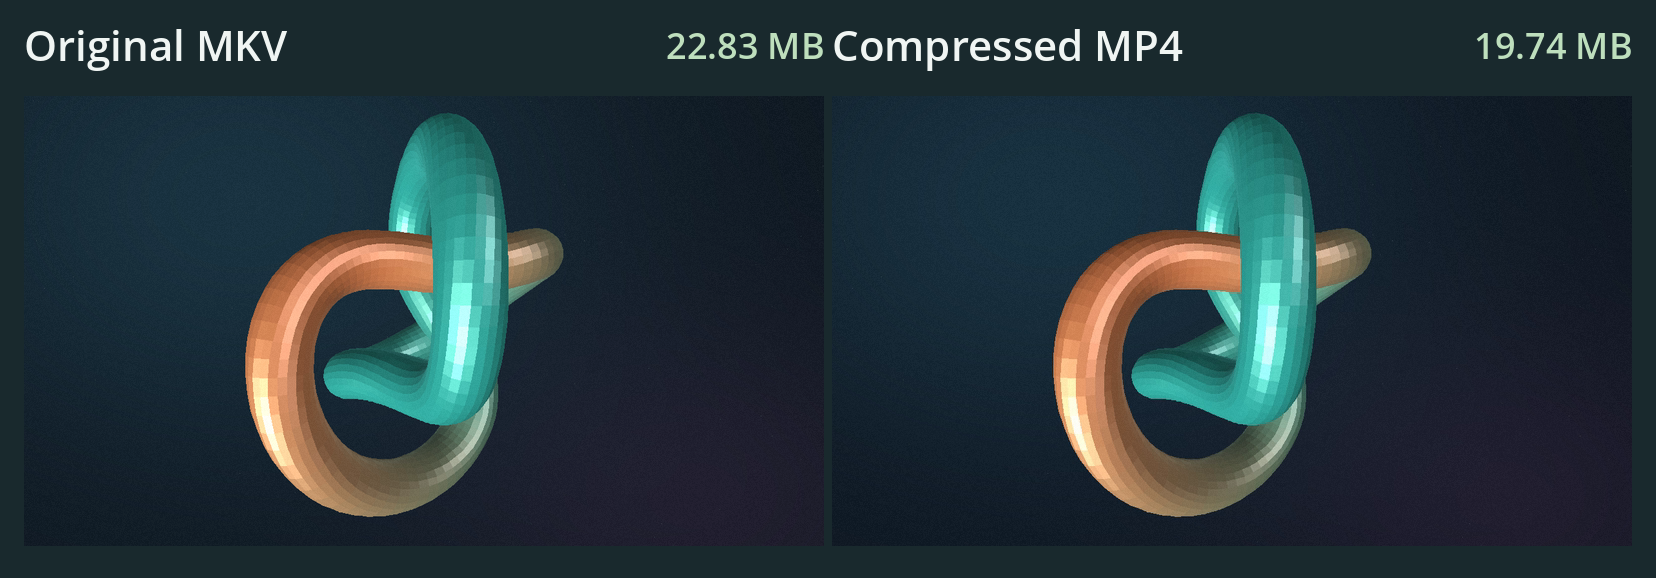
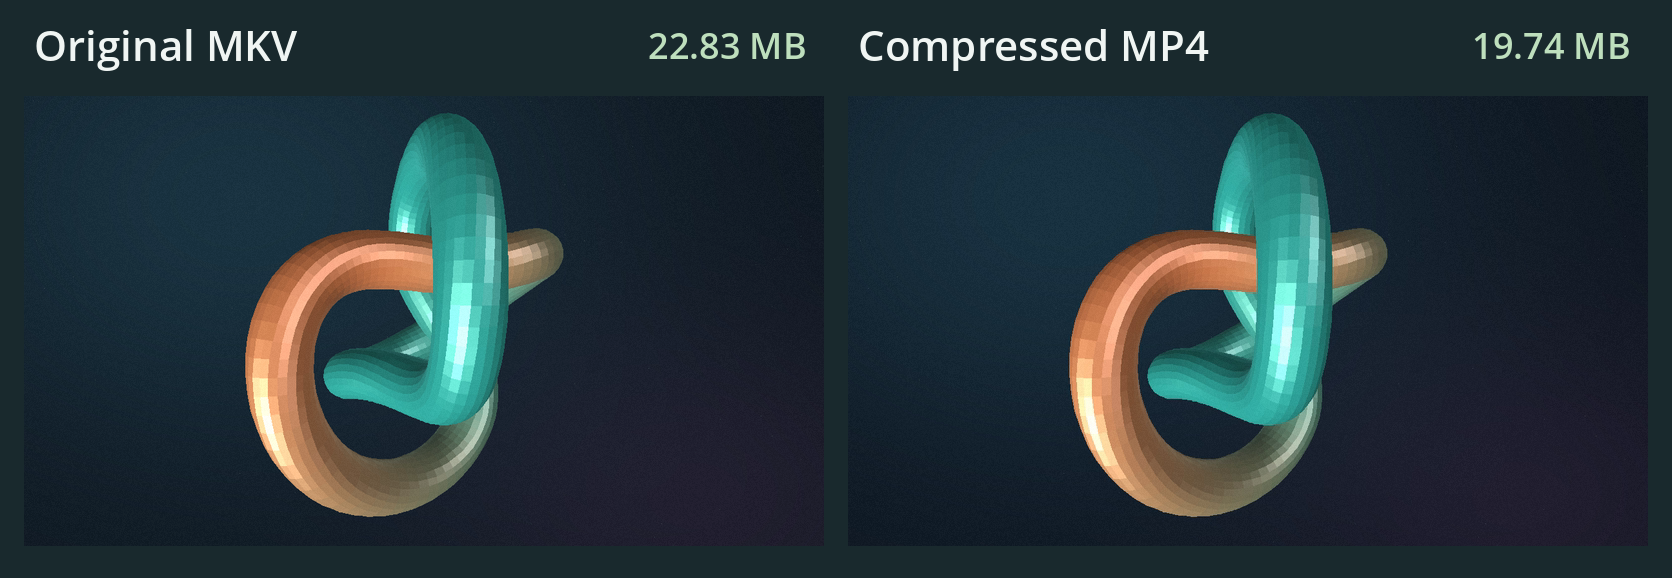
Link the v1.0.0 release and finish the media comparison layout

diff --git a/README.md b/README.md
@@ -2,7 +2,7 @@
 
 Drop audio or video onto Under 20. It saves a copy **under 20 MB** beside each original, ready to attach or share.
 
-**[Download for Windows x64 · 551 KB ZIP](downloads/Under20-Windows.zip?raw=1)**
+**[Download for Windows x64 · 551 KB ZIP](https://github.com/tobiko-dev/media-under-20mb/releases/download/v1.0.0/Under20-Windows.zip)**
 
 Extract the ZIP, open `Under20.exe`, and drop in your files. It uses your installed FFmpeg. Select a finished row and click **Open file location** to jump to the copy.
 
